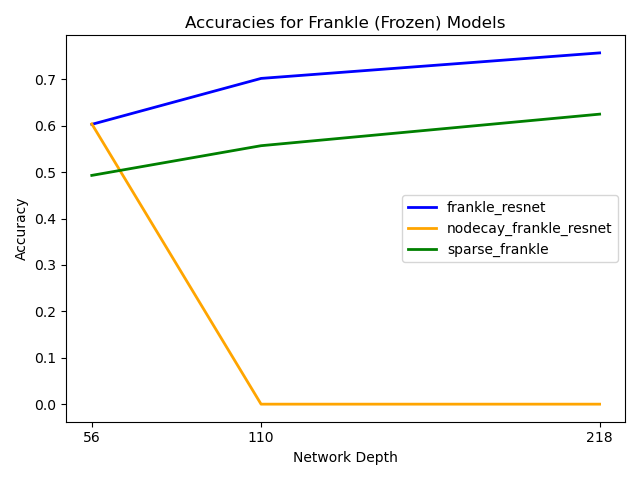
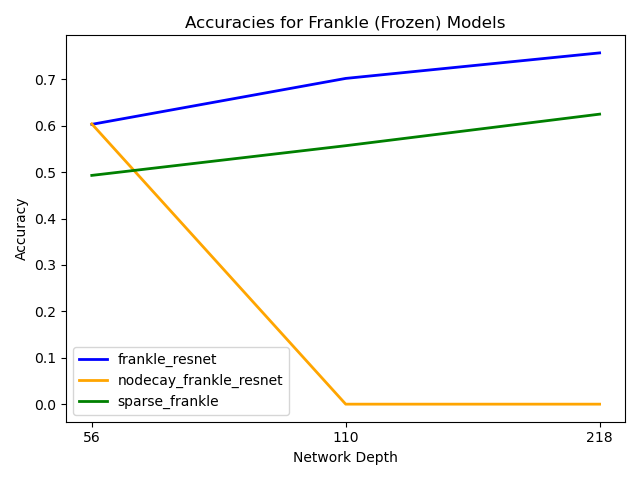
small fix

diff --git a/src/vis/__init__.py b/src/vis/__init__.py
@@ -71,7 +71,7 @@ def plot_accuracy(train_accs, val_accs):
 
 def plot_final_accuracy(test_accs, exp_types, title):
     
-    depths = [56, 110, 218]
+    depths = ["56", "110", "218"]
     print(test_accs)
     for i in range(len(exp_types)):
         color = "blue"
